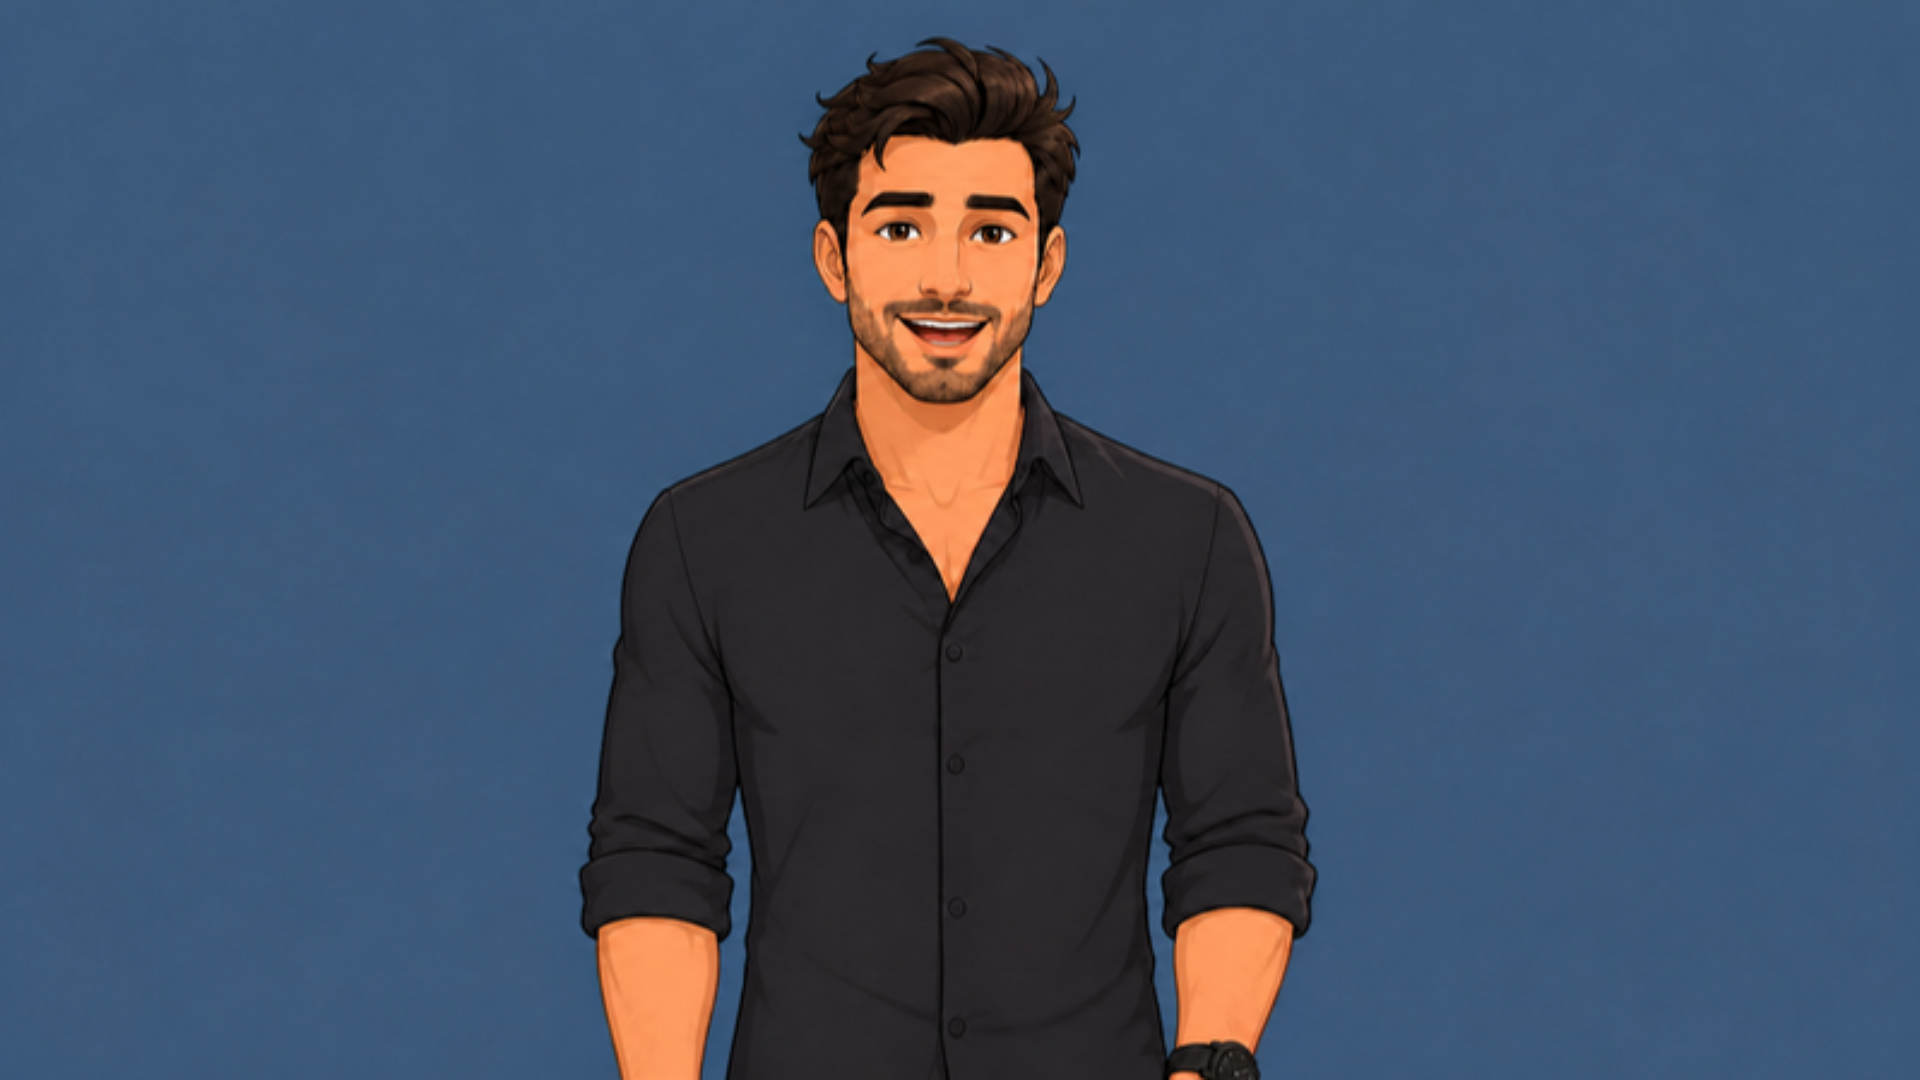
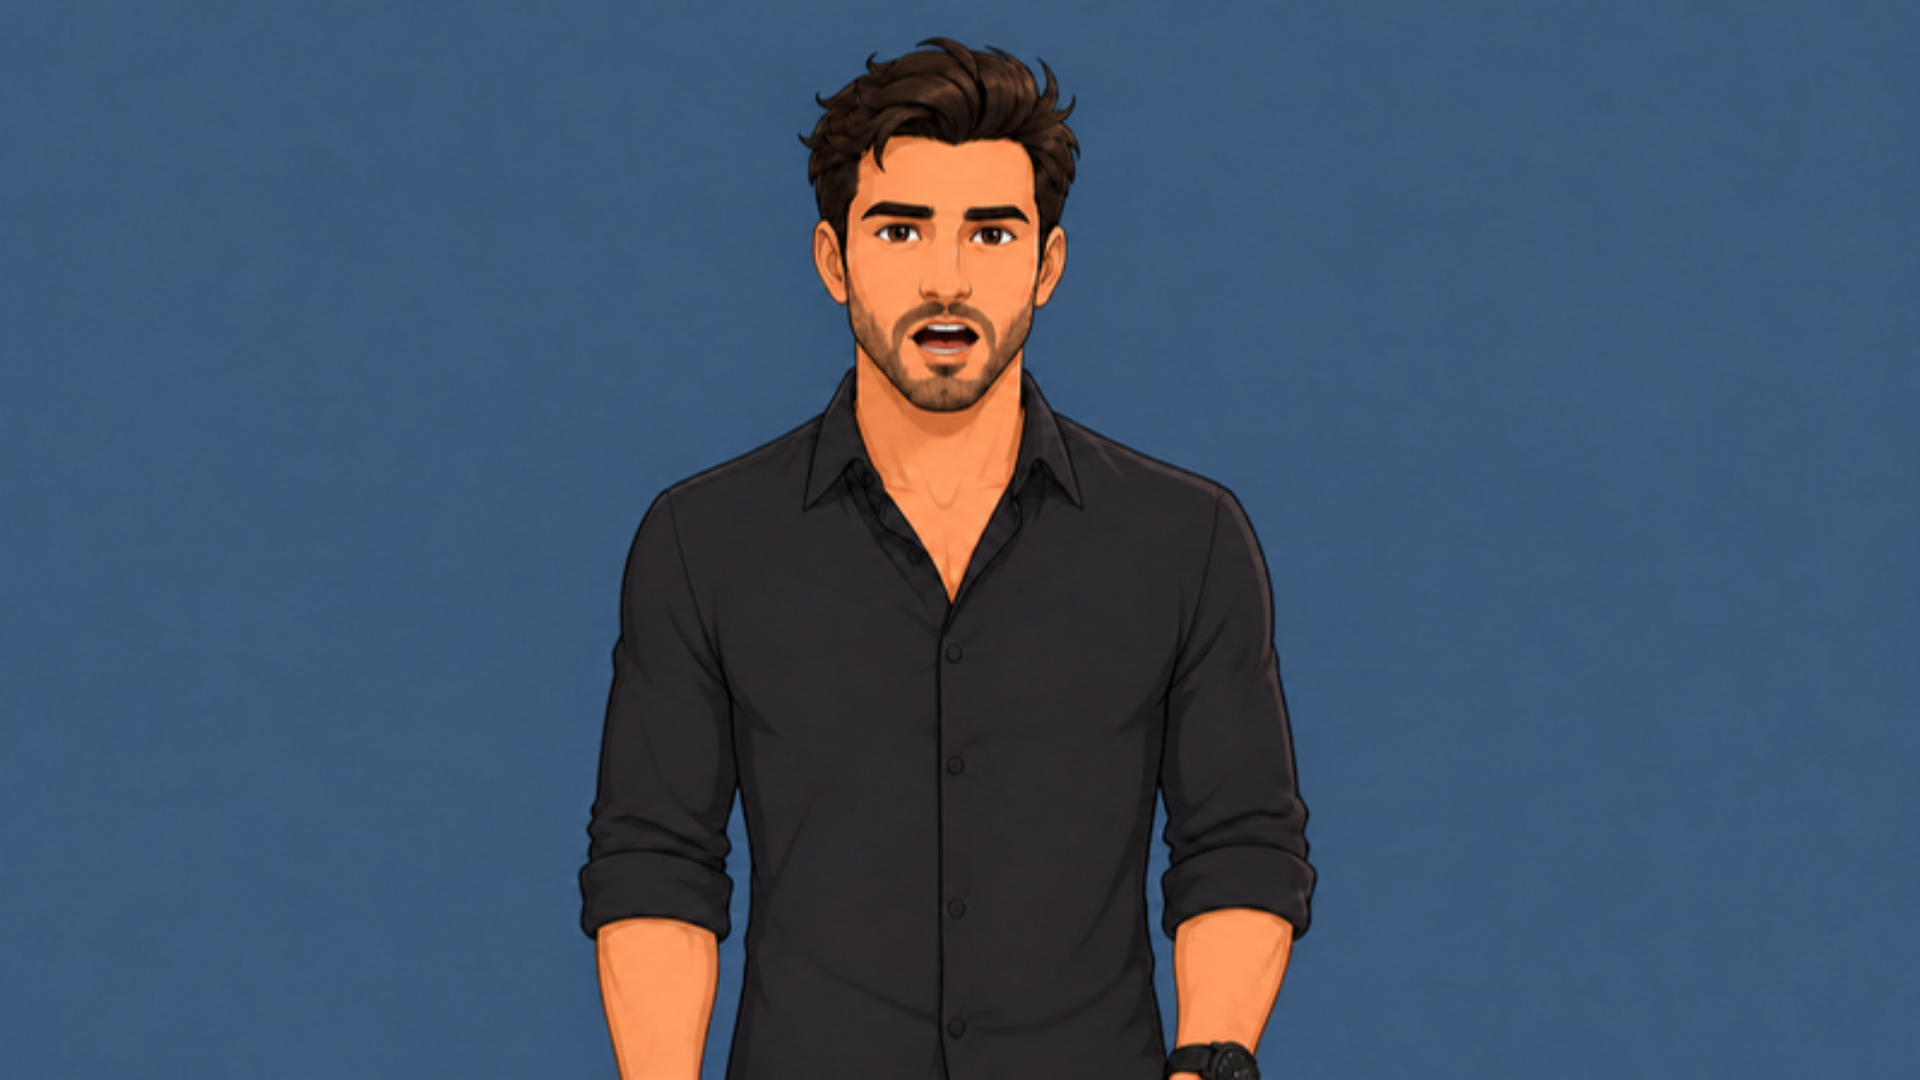
Ara kayıt: ajan çalışmaları sürüyor
Claude-Session: https://claude.ai/code/session_01NGi6bQwxQ15318XEdQm59H

diff --git a/tools/gorsel/tutarlilik.py b/tools/gorsel/tutarlilik.py
@@ -75,7 +75,7 @@ def analyze(path):
 
 def main():
     ap = argparse.ArgumentParser(); ap.add_argument('dir'); ap.add_argument('--ref', default='a-konusma-kapali.png')
-    ap.add_argument('--kontak', default=None); ap.add_argument('--json', default=None)
+    ap.add_argument('--kontak', default=None); ap.add_argument('--kart', default=None, help='referans karakter sayfası (kontakta ilk kare)'); ap.add_argument('--json', default=None)
     a = ap.parse_args()
     files = sorted(f for f in glob.glob(os.path.join(a.dir, '*.png')))
     res = {os.path.basename(f): analyze(f) for f in files}
@@ -106,9 +106,14 @@ def main():
             t = cv2.resize(im, (640,360)); cv2.rectangle(t,(0,0),(640,34),(0,0,0),-1)
             cv2.putText(t, n, (8,25), cv2.FONT_HERSHEY_SIMPLEX, 0.8, (255,255,255), 2)
             # kafa yakın plan
-            hc = cv2.resize(x['path'] and cv2.imread(x['path'])[y0:y1, x0:x1], (300,360))
+            hc = cv2.resize(cv2.imread(x['path'])[y0:y1, x0:x1], (300,360))
             thumbs.append(np.hstack([t, hc]))
-        extra = [p for p in sys.argv if p.startswith('--extra=')]
+        if a.kart:
+            k = cv2.imread(a.kart); kh, kw = k.shape[:2]; s_ = min(940/kw, 360/kh)
+            k = cv2.resize(k, (int(kw*s_), int(kh*s_))); tile = np.full((360,940,3), 40, np.uint8)
+            oy, ox = (360-k.shape[0])//2, (940-k.shape[1])//2; tile[oy:oy+k.shape[0], ox:ox+k.shape[1]] = k
+            cv2.putText(tile, 'REFERANS', (8,25), cv2.FONT_HERSHEY_SIMPLEX, 0.8, (0,255,255), 2)
+            thumbs.insert(0, tile)
         cols = 2; pad = np.zeros_like(thumbs[0])
         while len(thumbs) % cols: thumbs.append(pad)
         grid = np.vstack([np.hstack(thumbs[i:i+cols]) for i in range(0, len(thumbs), cols)])
